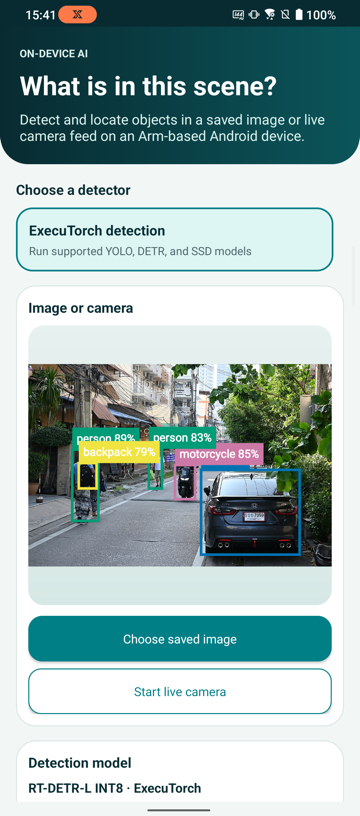
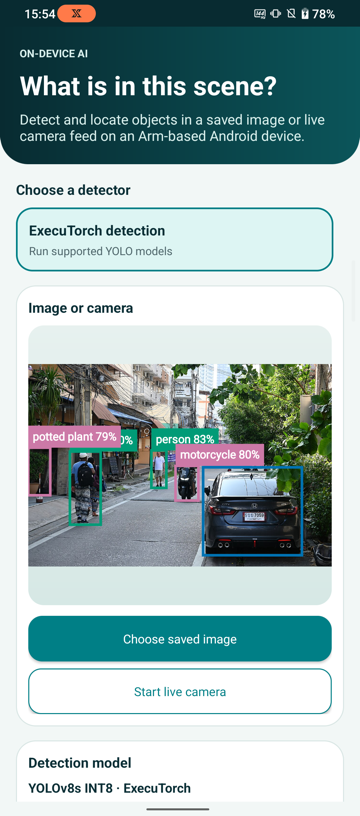
Removed models

diff --git a/app/src/main/java/org/arm/learningpath/objectdetection/ModelRegistry.java b/app/src/main/java/org/arm/learningpath/objectdetection/ModelRegistry.java
@@ -32,33 +32,6 @@ final class ModelRegistry {
                     "yolov9s_raspberry_executorch_optimized.pte",
                     ExecuTorchObjectDetectionAdapter.CONFIG_YOLO_V9,
                     DEFAULT_CONFIDENCE_PERCENT
-            ),
-            new ModelDescriptor(
-                    "rtdetr-l-executorch",
-                    "RT-DETR-L INT8",
-                    ExecuTorchObjectDetectionAdapter.ID,
-                    "ExecuTorch",
-                    "rtdetr-l-int8-executorch.pte",
-                    ExecuTorchObjectDetectionAdapter.CONFIG_RT_DETR,
-                    DEFAULT_CONFIDENCE_PERCENT
-            ),
-            new ModelDescriptor(
-                    "deformable-detr-executorch",
-                    "Deformable DETR INT8",
-                    ExecuTorchObjectDetectionAdapter.ID,
-                    "ExecuTorch",
-                    "deformable-detr_raspberry_executorch_optimized.pte",
-                    ExecuTorchObjectDetectionAdapter.CONFIG_DEFORMABLE_DETR,
-                    DEFAULT_CONFIDENCE_PERCENT
-            ),
-            new ModelDescriptor(
-                    "ssd-resnet50-executorch",
-                    "SSD ResNet50 INT8",
-                    ExecuTorchObjectDetectionAdapter.ID,
-                    "ExecuTorch",
-                    "ssd_resnet50_executorch_optimized.pte",
-                    ExecuTorchObjectDetectionAdapter.CONFIG_SSD_RESNET50,
-                    DEFAULT_CONFIDENCE_PERCENT
             )
     );
     private static final List<ModelDescriptor> MODELS = createModels();

diff --git a/download_model.py b/download_model.py
@@ -1,7 +1,6 @@
 #!/usr/bin/env python3
 
 import argparse
-import shutil
 import sys
 from pathlib import Path
 
@@ -10,17 +9,6 @@ SUPPORTED_MODELS = {
     "Arm/yolov5s-int8-xnnpack-executorch": "yolov5s_raspberry_executorch_optimized.pte",
     "Arm/yolov8s-int8-xnnpack-executorch": "yolov8s_raspberry_executorch_optimized.pte",
     "Arm/yolov9s-int8-xnnpack-executorch": "yolov9s_raspberry_executorch_optimized.pte",
-    "Arm/rtdetr-l-int8-xnnpack-executorch": "optimized.pte",
-    "Arm/deformable-detr-int8-xnnpack-executorch-raspberrypi5": (
-        "deformable-detr_raspberry_executorch_optimized.pte"
-    ),
-    "Arm/ssd-resnet50-int8-xnnpack-executorch": (
-        "ssd_resnet50_executorch_optimized.pte"
-    ),
-}
-
-IMPORT_FILENAMES = {
-    "Arm/rtdetr-l-int8-xnnpack-executorch": "rtdetr-l-int8-executorch.pte",
 }
 
 
@@ -71,10 +59,6 @@ def main() -> None:
                 local_dir=destination,
             )
         )
-        if args.filename is None and args.repo_id in IMPORT_FILENAMES:
-            import_path = destination / IMPORT_FILENAMES[args.repo_id]
-            shutil.copy2(downloaded_path, import_path)
-            downloaded_path = import_path
     else:
         print(f"Downloading {args.repo_id} to {destination} ...", file=output_stream)
         snapshot_path = Path(

diff --git a/README.md b/README.md
@@ -4,7 +4,7 @@ This example application accompanies the [Arm Learning Path for running object-d
 
 This Android application runs Arm-optimized object-detection models locally on an Arm64 phone or emulator. It includes one supplied adapter:
 
-- `ExecuTorchObjectDetectionAdapter` provides **ExecuTorch detection** for supported YOLO, DETR, and SSD models. It routes each model to a detector strategy that handles the required preprocessing, output decoding, and postprocessing.
+- `ExecuTorchObjectDetectionAdapter` provides **ExecuTorch detection** for supported YOLO models. It routes each model to the matching preprocessing, output decoding, and postprocessing configuration.
 
 The application imports model binaries at run time, so the model files are not stored in the Android application package (APK).
 
@@ -33,15 +33,8 @@ The model registry uses the filename to select the supplied adapter and the dete
 | [YOLOv5s INT8](https://huggingface.co/Arm/yolov5s-int8-xnnpack-executorch) | ExecuTorch | `yolov5s_raspberry_executorch_optimized.pte` |
 | [YOLOv8s INT8](https://huggingface.co/Arm/yolov8s-int8-xnnpack-executorch) | ExecuTorch | `yolov8s_raspberry_executorch_optimized.pte` |
 | [YOLOv9s INT8](https://huggingface.co/Arm/yolov9s-int8-xnnpack-executorch) | ExecuTorch | `yolov9s_raspberry_executorch_optimized.pte` |
-| [RT-DETR-L INT8](https://huggingface.co/Arm/rtdetr-l-int8-xnnpack-executorch) | ExecuTorch | `rtdetr-l-int8-executorch.pte` |
-| [Deformable DETR INT8](https://huggingface.co/Arm/deformable-detr-int8-xnnpack-executorch-raspberrypi5) | ExecuTorch | `deformable-detr_raspberry_executorch_optimized.pte` |
-| [SSD ResNet50 INT8](https://huggingface.co/Arm/ssd-resnet50-int8-xnnpack-executorch) | ExecuTorch | `ssd_resnet50_executorch_optimized.pte` |
 
-The adapter uses three internal detector implementations:
-
-- `ExecuTorchYoloDetector` handles the three YOLO configurations.
-- `ExecuTorchDetrDetector` handles RT-DETR and Deformable DETR.
-- `ExecuTorchSsdDetector` handles the SSD anchor grid and box decoder.
+`ExecuTorchYoloDetector` handles the three YOLO configurations.
 
 ## Download a model
 
@@ -87,7 +80,7 @@ $MODEL_FILE = python download_model.py `
 Write-Output "Model file: $MODEL_FILE"
 ```
 
-For a supported model, the script downloads the registered `.pte` file. RT-DETR publishes its model as `optimized.pte`, so the script saves it as `rtdetr-l-int8-executorch.pte`. For another repository, it downloads the package and selects its only `.pte` file. Use `--filename` if the repository contains more than one model file.
+For a supported model, the script downloads the registered `.pte` file. For another repository, it downloads the package and selects its only `.pte` file. Use `--filename` if the repository contains more than one model file.
 
 Copy the downloaded model to the Android **Downloads** directory through ADB:
 
@@ -149,7 +142,7 @@ If the model keeps the ExecuTorch runtime and per-image detection interface but 
 
 ## Extend the application
 
-The application discovers detection modes through `AdapterRegistry.java`. The supplied adapter supports the registered ExecuTorch YOLO, DETR, and SSD models. `GeneratedAdapterRegistry.java` is intentionally empty and provides a build-time extension point for a model package that does not fit that adapter.
+The application discovers detection modes through `AdapterRegistry.java`. The supplied adapter supports the registered ExecuTorch YOLO models. `GeneratedAdapterRegistry.java` is intentionally empty and provides a build-time extension point for a model package that does not fit that adapter.
 
 A LiteRT object detector could implement the same `DetectionAdapter` interface and reuse the application's image input, camera input, confidence control, and overlay UI. A separate `LiteRtObjectDetectionAdapter` would provide the LiteRT dependency, `.tflite` validation, preprocessing, model runner, and output decoder. The supplied application does not include a tested LiteRT adapter.
 
